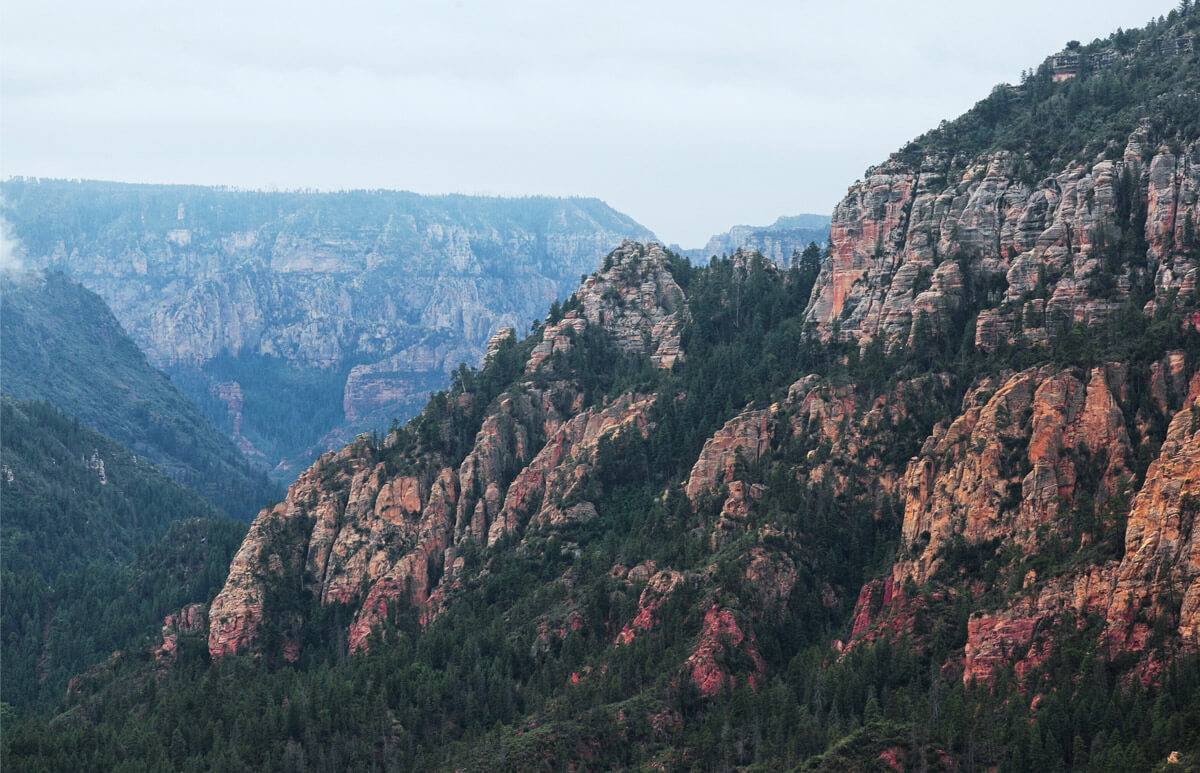
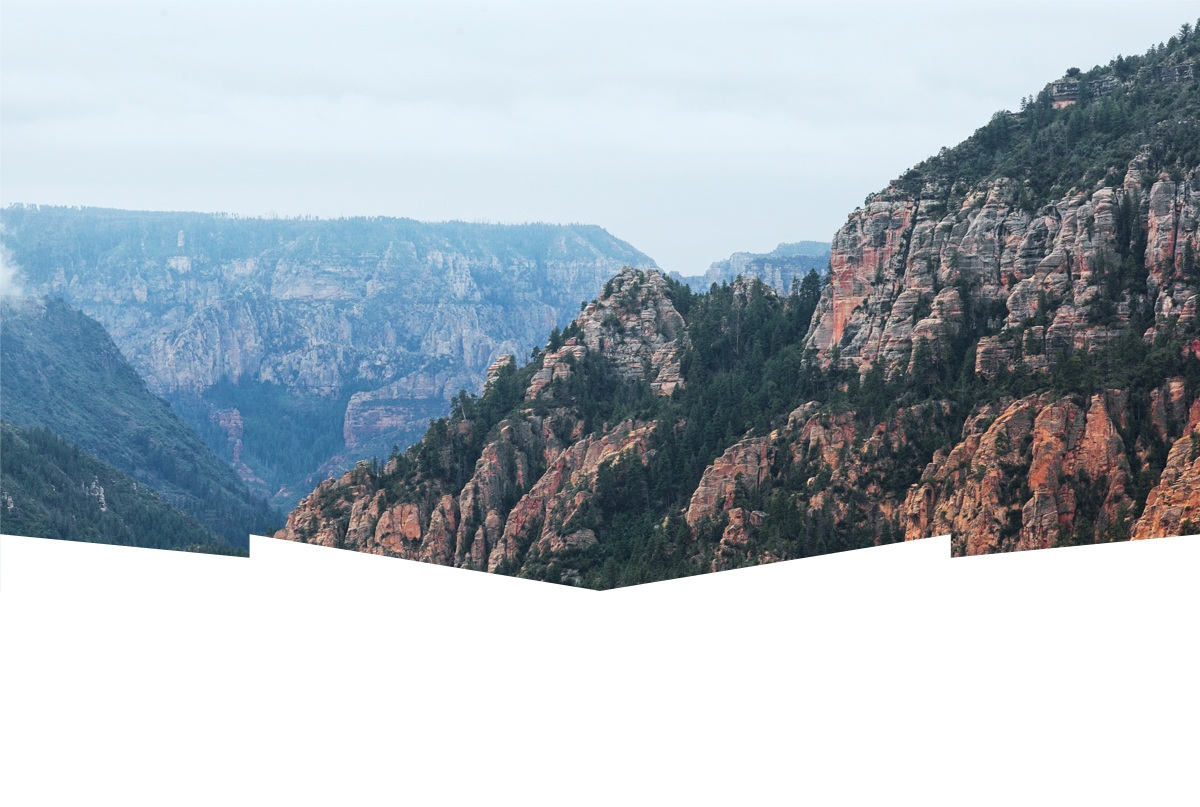
Декоративные элементы
Главная страница закончена

diff --git a/index.html b/index.html
@@ -43,7 +43,7 @@
             <span>-№1-</span>
             <p>Седона-не аттракцион для туристов. Там течёт своя жизнь</p>
           </div>
-          <img src='img/town.jpg'    alt='Welcome to Sedona' >
+          <img src='img/town.jpg'     alt='Welcome to Sedona' >
         </li>
         <li class='feature-item-blue'>
           <div>
@@ -72,17 +72,14 @@
         <li class='feature-item'>
           <ul class='recommendations-list'>
             <li class='recommendations-item'>
-              <!-- будет фоном  <img src='img/svg/icon-1.svg' width='' height='' alt='Жильё'>  -->
-              <h3>Жильё</h3>
+              <h3>&nbsp&nbsp&nbsp&nbspЖильё</h3>
               <p>Рекомендуем пожить в настоящем мотеле, всё как в кино!</p>
             </li> 
             <li class='recommendations-item'>
-              <!-- <img src="img/svg/icon-2.svg" width="" height="" alt="Еда"> -->
-              <h3>Еда</h3>
+              <h3>&nbsp&nbsp&nbsp&nbsp&nbsp&nbspЕда</h3>
               <p>Всегда заказывайте фирменный бургер, вы не разочаруетесь!</p>
             </li>
             <li class='recommendations-item'>
-              <!-- <img src='img/svg/icon-3.svg' width='' height='' alt="Еда"> -->
               <h3>Сувениры</h3>
               <p>Не только китайского, но и местного производства!</p>
             </li>
@@ -136,7 +133,9 @@
       <p>
         <img src='img/map.jpg' width='1200'  alt='Sedona Visitor Information Center 331 Forest Road Sedona, Arizona Call (800) 288-7336 or (928) 282-7722'>
       </p>
+      <!--
       <button class="modal-close" type="button">Закрыть</button>
+    -->
     </section>
 
   </main>

diff --git a/css/style.css b/css/style.css
@@ -106,10 +106,7 @@ list-style: none;
   height: 500px;
   background-image: url("../img/background-photo.jpg");
   background-size:  cover;
-  background-position:  0 -57px;
-  /* в Pixel Perfect по картинке с надписью полное совпадение, а вот по бэкграунду беда :) 
-  Пока оставлю так 
-  */
+  background-position:  0 -83px;
   background-repeat: no-repeat;  
 }
 
@@ -135,7 +132,9 @@ list-style: none;
 
 .features h3{
   font-size: 21px;
-  font-style: 700;
+  font-weight:  700;
+
+
 }
 
 .features p{
@@ -175,6 +174,7 @@ list-style: none;
 .feature-item-blue img{
   width: 800px;
   height: 256px;
+  background-size: cover;
 }
 
 .feature-item-blue h3,
@@ -224,6 +224,36 @@ list-style: none;
   padding: 0;
   width: 1200px;
   height: 330px;
+}
+
+.recommendations-list li:nth-child(1) {
+  background-image: url('../img/svg/icon-1.svg');
+  background-repeat: no-repeat;
+  background-position:  center 60px;
+}
+.recommendations-list li:nth-child(2) {
+  background-image: url('../img/svg/icon-3.svg');
+  background-repeat: no-repeat;
+  background-position:  center 60px;
+}
+.recommendations-list li:nth-child(3) {
+  background-image: url('../img/svg/icon-2.svg');
+  background-repeat: no-repeat;
+  background-position:  center 60px;
+}
+
+.recommendations-item{
+  position: relative;
+}
+.recommendations-item h3{
+  position: absolute;
+  top: 139px;
+  left:147px;
+}
+.recommendations-item p{
+  position: absolute;
+  top: 204px;
+  left:3px; 
 }
 
 
